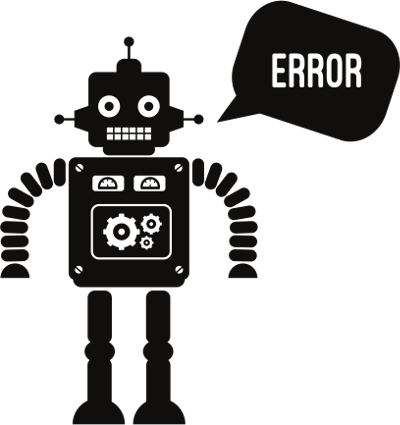
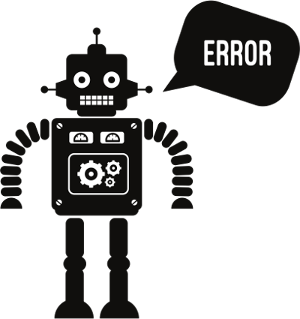
404 img and text.

diff --git a/404.html b/404.html
@@ -2,9 +2,11 @@
 layout: default
 title: 404 Error | Sorry, this page does not exist.
 --- 
+<div>
+    <img style="display: block; margin: 0 auto;" alt="Error" src="/rymnikski.github.io/img/4.png">
+</div>
 
 <div class="error">
-            <p style="float: left;"><img alt="Error" src="/rymnikski.github.io/img/4.png" height="400px" width="420px" border="1px"></p>
-        	<p><h1>Whoah, that's a 404 Error</h1>
-        	<p class="lead">Hey, sorry, but the page you're trying to access doesn't exist. Try <a href="/" title="Jesus Santander homepage">going back to the homepage</a>, or use the navigation menu above to find what you're looking for.</p></p>
+            <h1>Whoah, that's a 404 Error</h1>
+        	<p class="lead">Hey, sorry, but the page you're trying to access doesn't exist. Try <a href="/" title="Jesus Santander homepage">going back to the homepage</a>, or use the navigation menu above to find what you're looking for.</p>
 </div>
